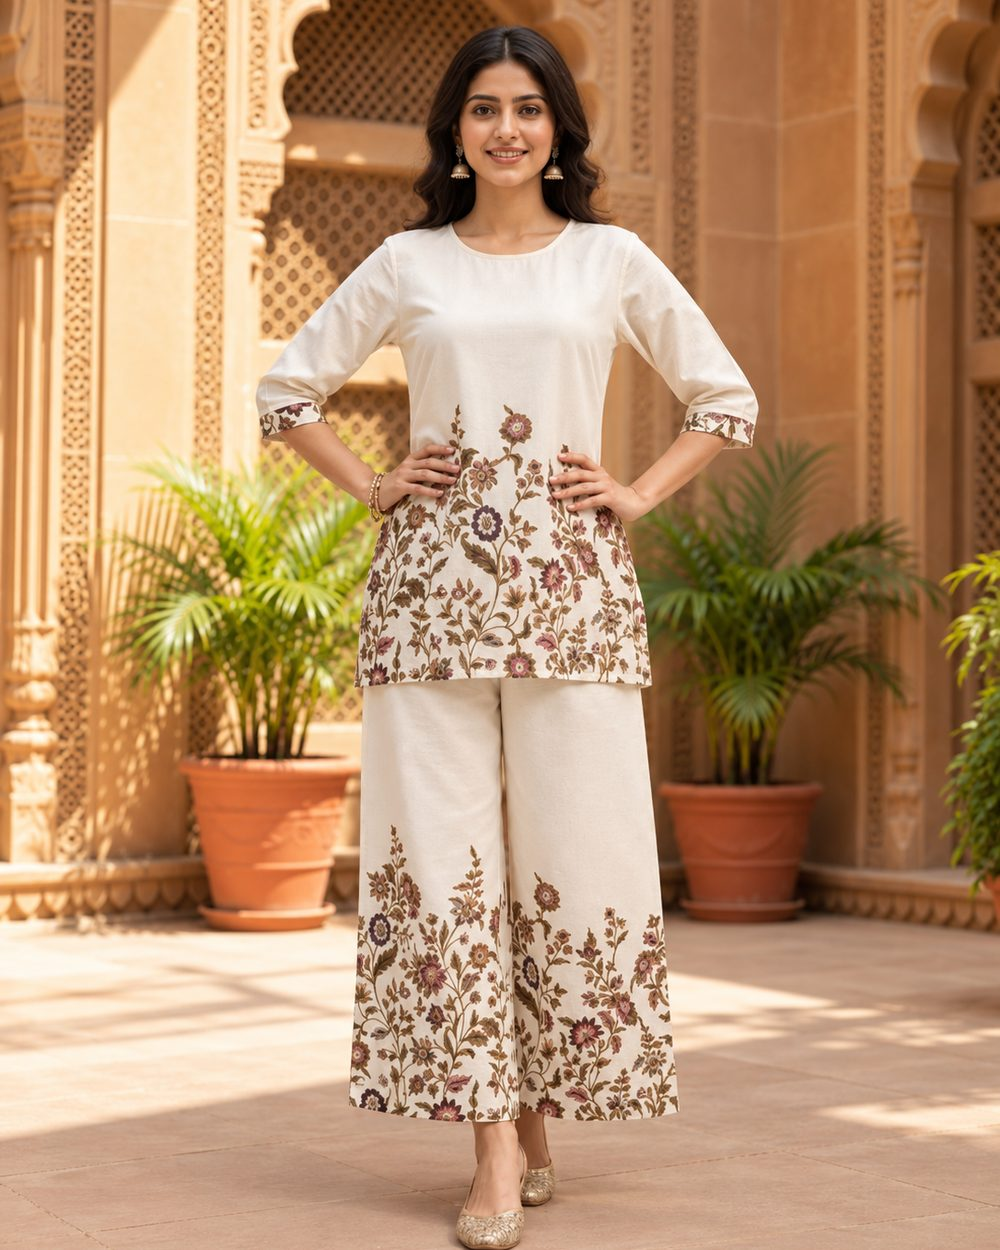
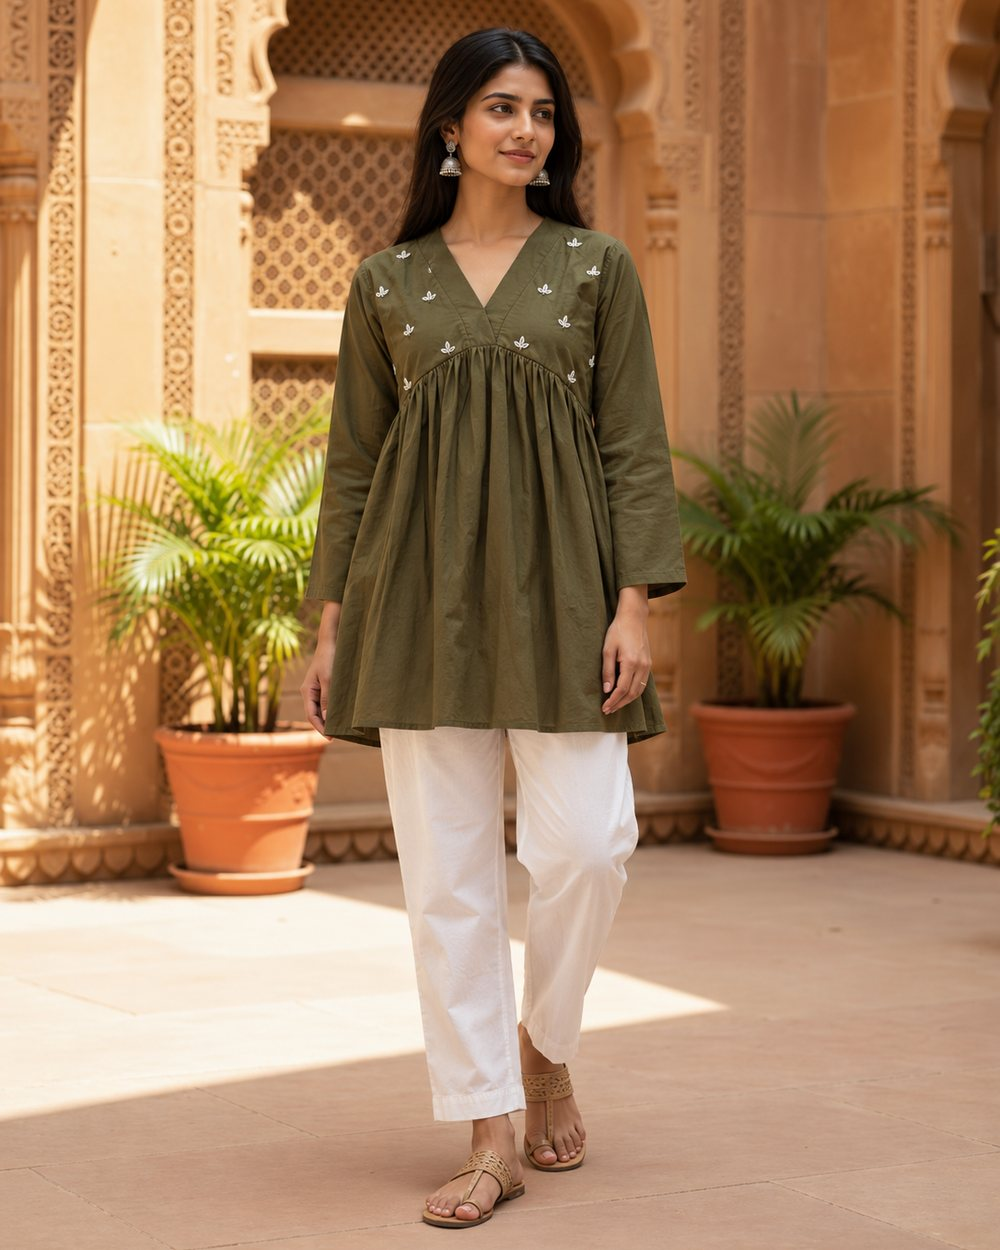
Make the Olive Green Short Kurti the master image
The owner wants AC-003 as the main brand image (D-025). The home banner
is cut to 4:5 from the original full-size upload (from git history) and
the link preview is rebuilt with it. Docs updated.

Claude-Session: https://claude.ai/code/session_016VtNXycYmcr6rKVkgwGtXe

diff --git a/index.html b/index.html
@@ -30,7 +30,7 @@
   <main>
     <section class="hero">
       <div class="hero-media">
-        <img src="images/hero.jpg" alt="Model wearing the ivory floral co-ord set" width="1000" height="1250">
+        <img src="images/hero.jpg" alt="Model wearing the olive green short kurti" width="1000" height="1250">
       </div>
       <div class="hero-content">
         <p class="eyebrow">Women's ethnic wear</p>

diff --git a/decisions.md b/decisions.md
@@ -198,3 +198,11 @@ A log of choices made for Aara Culture and why. Add new decisions at the bottom 
 - **Alternatives considered:** Cormorant + Manrope (board 6); Cormorant + Jost (the website before).
 - **Consequences:** Website, logo and print all use the same three fonts. Montserrat is wider than Jost, so the phone announcement bar uses slightly tighter spacing to stay on one line. Allura is only for short lines.
 
+## D-025 — Olive Green Short Kurti is the master image
+- **Date:** 2026-10-04
+- **Status:** Accepted
+- **Context:** The owner wants the Olive Green Short Kurti (AC-003) photo as the main brand image instead of the ivory floral co-ord set.
+- **Decision:** Use it for the home page banner (`images/hero.jpg`, cut to 4:5 from the owner's original full-size upload) and for the link preview (`images/share.jpg`, rebuilt with `node brand/tools/export_png.js`).
+- **Alternatives considered:** Keep the ivory floral co-ord photo (the previous banner).
+- **Consequences:** When the master image changes again, replace `images/hero.jpg` and re-run `export_png.js` so the link preview matches.
+

diff --git a/progress.md b/progress.md
@@ -71,3 +71,4 @@ The full list, with priorities, is in `backlog.md`.
 - Merged the Bloom logo ([PR #6](https://github.com/PradipDj432/aara-culture/pull/6)); it's live. Owner: logo and colours are final for now (colours may be adjusted a little later).
 - Fonts: showed 3 pairs from the owner's boards on real website pieces. Owner chose Cormorant Garamond (titles) + Montserrat (text) + Allura (taglines) (D-024). Replaced Jost with Montserrat across the website, set fixed type styles as CSS variables, put the brand quote in Allura, and switched the logo's tagline version to Allura. Type styles are documented in `brand/README.md`.
 - Tested at 360px, 390px and 1440px: no horizontal scrolling, no clipped text, no broken images, no script errors; the announcement bar stays on one line.
+- Owner chose the Olive Green Short Kurti (AC-003) as the master image (D-025). New home banner cut from the original full-size upload (from git history, not the compressed copy); link preview rebuilt with it. Checked on phone and computer.

diff --git a/README.md b/README.md
@@ -120,7 +120,7 @@ Edit `js/config.js`:
 - The link preview address is in each page's `<head>` (`og:image`). If the website moves to its own domain, update it there.
 
 ## Change the home page banner
-Upload a portrait photo (about 1000 × 1250 pixels) to `images/`, then in `index.html` change `images/hero.jpg` to your photo's name.
+The banner is `images/hero.jpg` (now the Olive Green Short Kurti, D-025). To change it, replace that file with a portrait photo of about 1000 × 1250 pixels (or upload a new one and change `images/hero.jpg` in `index.html`). Then run `node brand/tools/export_png.js` so the link preview uses the same photo.
 
 ## Photo tips for the premium look
 - Keep each photo under about 250 KB. Big phone or AI photos (1–2 MB) make the site slow on mobile data; ask Claude to compress them, or use a free tool like squoosh.app (JPEG, quality 80, width 1000).

diff --git a/backlog.md b/backlog.md
@@ -66,3 +66,4 @@ Focus now is women's clothing only. Later, grow into a lifestyle brand with sub-
 - [x] **Dev** Bloom traced from the owner's image; new logo set in `brand/logo/`; website, icons, profile picture and link preview updated (D-023).
 - [x] **Owner** Fonts chosen: Cormorant Garamond + Montserrat + Allura (D-024).
 - [x] **Dev** Fonts and type styles applied to the website, logo tagline and brand guide (D-024).
+- [x] **Dev** Olive Green Short Kurti as the master image: home banner and link preview (D-025).
